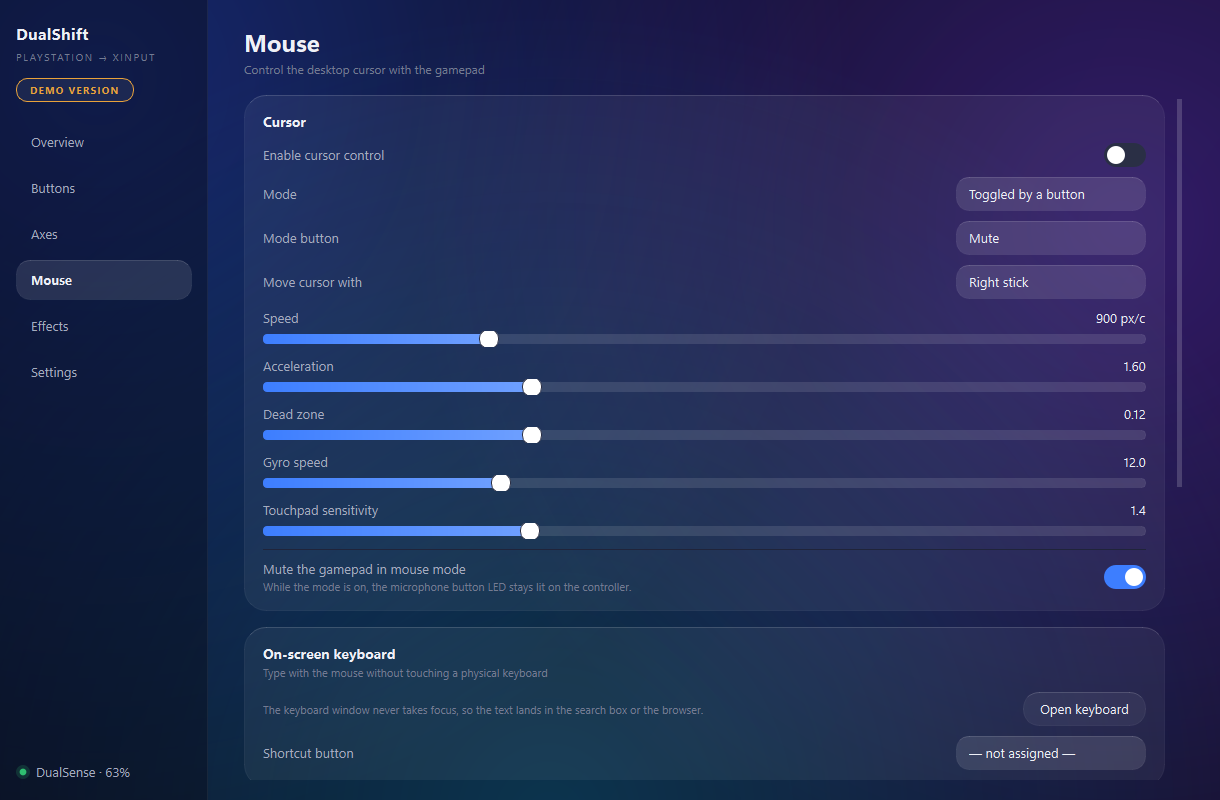
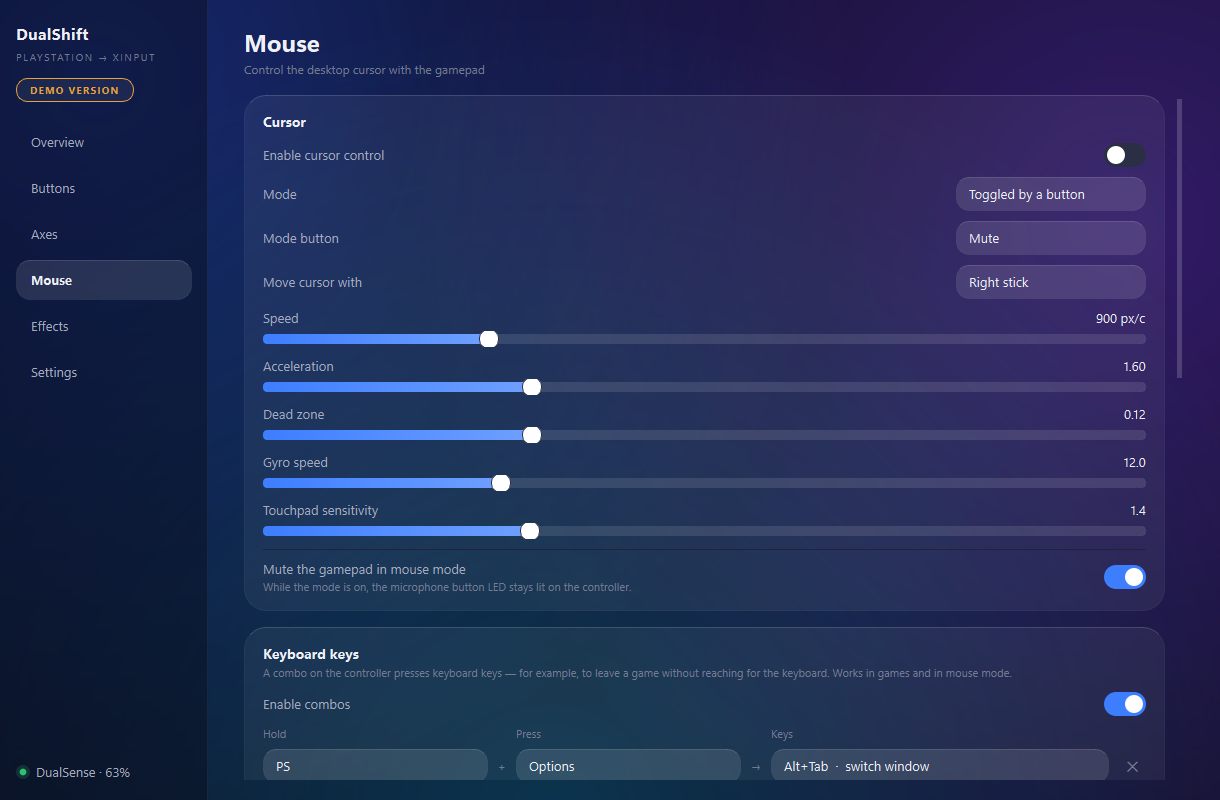
1.0.2: клавиши клавиатуры с геймпада, права администратора, одна копия, цвета заряда
Новый раздел README и скриншот сочетаний, заметки к выпуску, хеш установщика.

diff --git a/docs/release-notes-1.0.2.md b/docs/release-notes-1.0.2.md
@@ -1,0 +1,37 @@
+Free for 7 days, every feature unlocked. Windows 10 and 11, 64-bit.
+
+**What's new in 1.0.2**
+
+- **Keyboard keys from the controller.** Hold PS and press a second button to send a key combination — leave a game with **PS + Options** (Alt+Tab), open Start with **PS + Create**, press Esc, show the desktop, change the volume. Works in games and in mouse mode. Every combo is yours to change on the **Mouse** page: pick the buttons and the keys from a list, or record your own combination. The held button does not reach the game while you hold it, and a normal short tap still does.
+- **Games that run as administrator.** Windows blocks key presses into such games. DualShift now notices it and offers to restart with administrator rights, and there is a new switch in Settings → Behaviour: **Run as administrator**.
+- **Only one copy runs at a time.** Starting DualShift again brings up the window that is already open, instead of a second bridge on the same controller.
+- **Closing the window is clear now.** The close button asks whether to quit or keep running in the tray, and can remember the answer. Quit really quits — before, the process could stay in memory without a window.
+- **Battery colours.** On the Overview bar and on the controller's light bar in *Battery* mode: blue when full, yellow in the middle, red when low.
+
+**What's inside**
+
+- Xbox 360 output, so games that ignore PlayStation pads work — or DualShock 4 output, for games that show native icons and use the touchpad
+- A live model of your controller, flat or in 3D
+- Rumble from the game, adjustable strength
+- Gyro aiming, adaptive triggers, your own light bar colour
+- Mouse mode: cursor from the stick, the gyro or the touchpad
+- On-screen keyboard that types into any window — English, Russian, Kazakh
+- Per-game profiles, dead zones and response curves, 14 interface languages
+
+**Installing**
+
+Run `DualShift Demo Setup.exe`. Windows shows a SmartScreen warning — the installer is not code-signed yet: **More info → Run anyway**. Agree to install the bundled ViGEmBus driver when the installer offers it; without it Windows cannot create the virtual controller.
+
+Already have 1.0.0 or 1.0.1? Just install on top — your settings, profiles and trial stay where they are.
+
+**Verify the download**
+
[1 lines of base64/hex data omitted]
+
+```powershell
+Get-FileHash "$HOME\Downloads\DualShift Demo Setup.exe" -Algorithm SHA256
+```
+
+3D model: "Playstation 5 Dualsense" by AHarmlessPotato (Sketchfab), CC BY 4.0, modified.
+
+Bugs and questions — open an Issue. Please say which Windows version and controller you have, and whether it is connected by USB or Bluetooth.

diff --git a/README.md b/README.md
@@ -35,6 +35,14 @@ moment of the shot. Tune it per game.
 stick, the gyro or the touchpad, click with the shoulder buttons. Start a
 film, scroll a feed, close a window — without getting up.
 
+**Keyboard keys from the controller.** Hold PS and press a second button to
+send a key combination: **PS + Options** switches out of the game (Alt+Tab),
+**PS + Create** opens Start, others press Esc, show the desktop or change the
+volume. Pick your own buttons and keys on the Mouse page, or record any
+combination. Works in games and in mouse mode.
+
+![Keyboard keys](docs/07-hotkeys.png)
+
 **On-screen keyboard.** Opens in its own window and types into whatever is
 active — a browser, a search box, a chat. English, Russian and Kazakh
 layouts.
@@ -78,6 +86,14 @@ or switch to 3D and turn it around with the mouse.
 To remove it: Windows Settings → Apps → DualShift → Uninstall. ViGEmBus is
 left in place, other programs may be using it; it uninstalls the same way.
 
+## If a key combo does nothing in a game
+
+Some games run **as administrator**, and Windows does not let ordinary
+programs press keys inside them. DualShift notices this and offers to restart
+with administrator rights; you can also turn on **Settings → Behaviour → Run
+as administrator**. Games protected by anti-cheat may block synthetic key
+presses altogether.
+
 ## Demo and full version
 
 The demo runs **7 days with every feature unlocked** — nothing is disabled,
@@ -105,10 +121,10 @@ the Telegram link so the bot knows which computer to issue the key for.
 
 ## Verifying the download
 
-`DualShift Demo Setup.exe` 1.0.1 — 51.3 MB
+`DualShift Demo Setup.exe` 1.0.2 — 51.4 MB
 
 ```
-SHA-256  4391b92b0bd4e6326041ba8eb97ce9bf736f9e6fa1d1e5c15b72c4975808a102
+SHA-256  5f33e9675e52173bc48811590132043c54f879c3db02039db6cfe158fa184ab4
 ```
 
 Check it in PowerShell before running:
